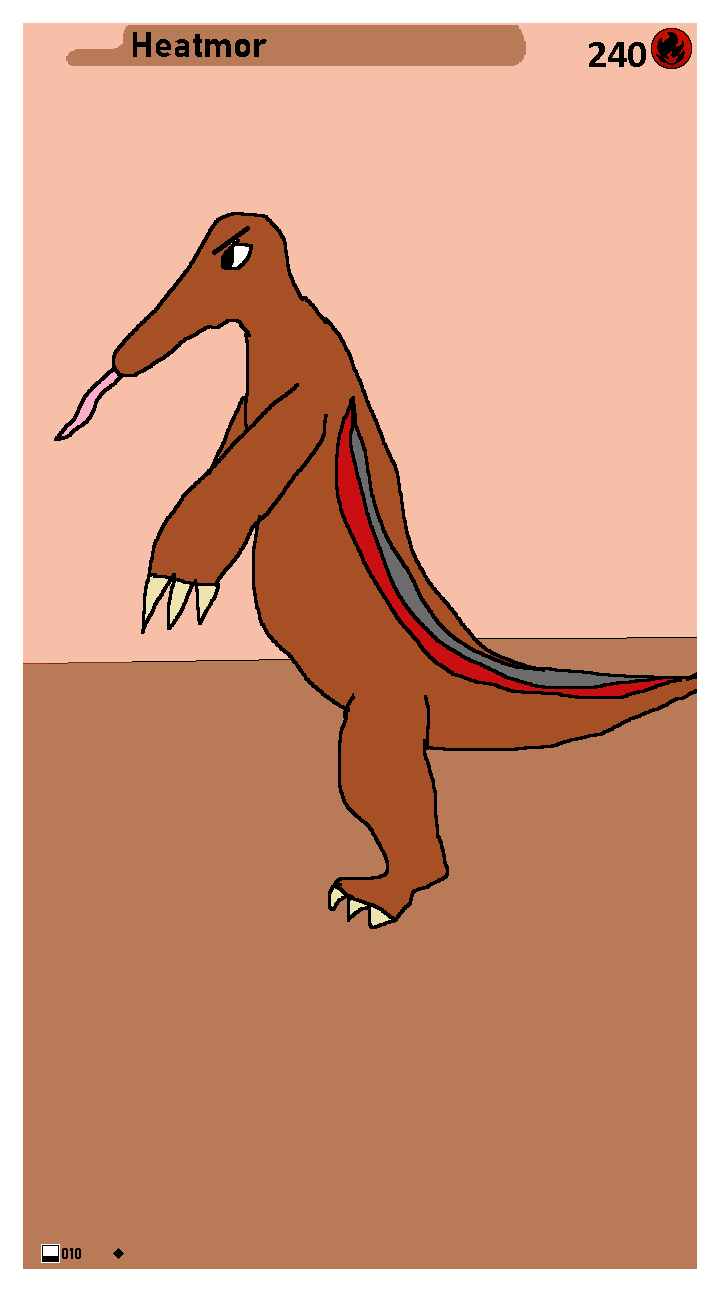
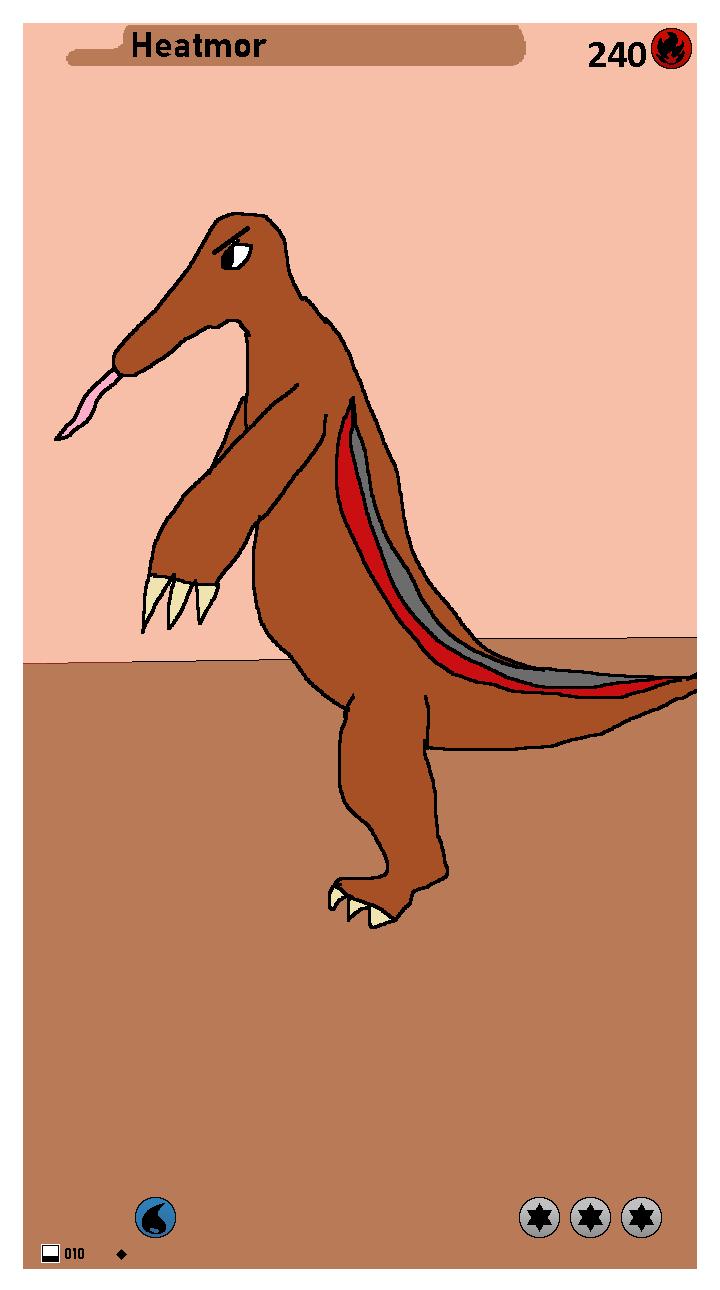
Changed how affection looks and how stats work

Changed region(s): [[0.7028, 0.9302, 0.9167, 0.9612], [0.1833, 0.9302, 0.2444, 0.9612], [0.0917, 0.9612, 0.1222, 0.9922]]

diff --git a/commands/affection/affection.js b/commands/affection/affection.js
@@ -1,16 +1,16 @@
 const { AttachmentBuilder, EmbedBuilder, ButtonBuilder, ButtonStyle, ActionRowBuilder, ComponentType } = require("discord.js");
 const { Users, ItemShop } = require('../../dbObjects.js');
 const { formatName } = require("../../pullingObjects.js");
-const { getLevelUpCost, getNewStats, getPassive, getSpecial } = require("../../affectionObjects.js")
+const { getLevelUpCost, getCurrentStats, getNewStats, getPassive, getSpecial } = require("../../affectionObjects.js")
 const Canvas = require('@napi-rs/canvas');
 
-function makeAffectionEmbed(cardCode, card, costData, statChanges, levelUnlocks) {
+function makeAffectionEmbed(cardCode, card, cardHP, costData, statChanges, levelUnlocks) {
 
     const affectionEmbed = new EmbedBuilder()
         .setColor("#616161")
         .setTitle(`Affection - ${cardCode}`)
         .setThumbnail(`attachment://poke-image.png`)
-        .setDescription(`**Name:** ${formatName(card.item)} \n**Type:** ${card.item.type} \n\n**Level:**\`${card.level}\` \n**Attack:**\`${card.attack}\` \n**Defence:**\`${card.defence}\` \n**Speed:**\`${card.speed}\` \n\n\`LV. ${ card.level == 10 ? 'MAX' : `${card.level} -> LV. ${card.level + 1}`}\` \n\`\`\`diff\nMaterials: \n${costData} \n\nStats: \n${statChanges}\`\`\` \n\n\`Level Unlocks:\` \n\`\`\`ansi\n${levelUnlocks["1"]} \n\n${levelUnlocks["5"]} \n\n${levelUnlocks["10"]}\`\`\``)
+        .setDescription(`**Name:** ${formatName(card.item)} \n**Type:** ${card.item.type} \n\n**Level:**\`${card.level}\` \n**HP:**\`${makeHealthBar(cardHP, cardHP)} ${cardHP} / ${cardHP}\` \n**Attack:**\`${card.attack}\` \n**Defence:**\`${card.defence}\` \n**Speed:**\`${card.speed}\` \n\n\`LV. ${ card.level == 10 ? 'MAX' : `${card.level} -> LV. ${card.level + 1}`}\` \n\`\`\`diff\nMaterials: \n${costData} \n\nStats: \n${statChanges}\`\`\` \n\n\`Level Unlocks:\` \n\`\`\`ansi\n${levelUnlocks["1"]} \n\n${levelUnlocks["5"]} \n\n${levelUnlocks["10"]}\`\`\``)
         .setFooter({ text: `Learn info about specials and passives with info button below`})
 
     return affectionEmbed;
@@ -38,6 +38,7 @@ function affectionEmbedBuilder(splitMessage, card) {
     let costData
 
     const newStats = getNewStats(card);
+    const currStats = getCurrentStats(card);
     let statChanges;
 
     if (card.level == 10) {
@@ -45,7 +46,7 @@ function affectionEmbedBuilder(splitMessage, card) {
         costData = `- NONE`;
     }
     else {
-        statChanges = `+ ${newStats["Attack"] - card.attack} Attack \n+ ${newStats["Defence"] - card.defence} Defence \n+ ${newStats["Speed"] - card.speed} Speed`;
+        statChanges = `+ ${newStats["HP"] - currStats["HP"]} HP \n+ ${newStats["Attack"] - card.attack} Attack \n+ ${newStats["Defence"] - card.defence} Defence \n+ ${newStats["Speed"] - card.speed} Speed`;
         costData = `- ${levelCost["Resource"]["Amount"]} ${(card.item.type).toUpperCase()} ${levelCost["Resource"]["Type"]} ${card.item.card_type == "HOLOFRAME" ? `\n- ${levelCost["HoloResource"]} SPECIAL ITEM` : ""} \n- ${levelCost["Money"]} POKEDOLLARS`
     };
 
@@ -57,7 +58,7 @@ function affectionEmbedBuilder(splitMessage, card) {
         "10": `[0;${card.level == 10 ? 37 : 30}m${card.level >= 10 ? " " : "🔒"} Lv. 10: ${specialData["Name"]} ★ \n${card.level >= 10 ? " " : "🔒"} Lv. 10: ${passiveData["Name"]} ★★ `
     };
 
-    return new makeAffectionEmbed(splitMessage[1], card, costData, statChanges, levelUnlocks);
+    return new makeAffectionEmbed(splitMessage[1], card, currStats["HP"], costData, statChanges, levelUnlocks);
 
 }
 
@@ -131,7 +132,7 @@ function makeLevelCancelEmbed(cardCode, card) {
         .setColor("#bd0f0f")
         .setTitle(`Affection - ${cardCode} [Cancel]`)
         .setThumbnail(`attachment://poke-image.png`)
-        .setDescription(`**Name:** ${formatName(card.item)} \n**Type:** ${card.item.type} \n\n\`Lv. 4\` \n\`\`\`diff\nLevel up has been canceled.\`\`\``)
+        .setDescription(`**Name:** ${formatName(card.item)} \n**Type:** ${card.item.type} \n\n**Level:** \`${card.level}\` \n\`\`\`diff\nLevel up has been canceled.\`\`\``)
 
     return levelEmbed;
 }
@@ -142,7 +143,7 @@ function makeLevelFailEmbed(cardCode, card) {
         .setColor("#bd0f0f")
         .setTitle(`Affection - ${cardCode} [Cancel]`)
         .setThumbnail(`attachment://poke-image.png`)
-        .setDescription(`**Name:** ${formatName(card.item)} \n**Type:** ${card.item.type} \n\n\`Lv. 4\` \n\`\`\`diff\nYou can not afford to level up.\`\`\``)
+        .setDescription(`**Name:** ${formatName(card.item)} \n**Type:** ${card.item.type} \n\n**Level:** \`${card.level}\` \n\`\`\`diff\nYou can not afford to level up.\`\`\``)
 
     return levelEmbed;
 }
@@ -170,11 +171,13 @@ function levelEmbedBuilder(splitMessage, card) {
     let costData;
 
     const newStats = getNewStats(card);
+    const currStats = getCurrentStats(card);
+    
     let statChanges;
 
     if (card.level < 10) {
         costData = `- ${levelCost["Resource"]["Amount"]} ${(card.item.type).toUpperCase()} ${levelCost["Resource"]["Type"]} ${card.item.card_type == "HOLOFRAME" ? `\n- ${levelCost["HoloResource"]} SPECIAL ITEM` : ""} \n- ${levelCost["Money"]} POKEDOLLARS`
-        statChanges = `+ ${newStats["Attack"] - card.attack} Attack \n+ ${newStats["Defence"] - card.defence} Defence \n+ ${newStats["Speed"] - card.speed} Speed`;
+        statChanges = `+ ${newStats["HP"] - currStats["HP"]} HP \n+ ${newStats["Attack"] - card.attack} Attack \n+ ${newStats["Defence"] - card.defence} Defence \n+ ${newStats["Speed"] - card.speed} Speed`;
     };
 
     const passiveData = getPassive(card);
@@ -186,9 +189,10 @@ function levelEmbedBuilder(splitMessage, card) {
 
 function levelConfirmEmbedBuilder(splitMessage, card) {
     const newStats = getNewStats(card);
+    const currStats = getCurrentStats(card);
     let statChanges;
 
-    if (card.level < 10) statChanges = `+ ${card.attack} -> ${newStats["Attack"]} Attack \n+ ${card.defence} -> ${newStats["Defence"]} Defence \n+ ${card.speed} -> ${newStats["Speed"]} Speed`
+    if (card.level < 10) statChanges = `+ ${currStats["HP"]} -> ${newStats["HP"]} HP \n+ ${card.attack} -> ${newStats["Attack"]} Attack \n+ ${card.defence} -> ${newStats["Defence"]} Defence \n+ ${card.speed} -> ${newStats["Speed"]} Speed`
 
     const passiveData = getPassive(card);
     const specialData = getSpecial(card);
@@ -206,6 +210,25 @@ function findItem(collection, itemName) {
     return null;
 }
 
+function makeHealthBar(maxHealth, curHealth) {
+    const green = "🟩";
+    const red = "🟥";
+    let curHealthSquares = Math.ceil(curHealth / 20); 
+    
+    let healthBar = "";
+
+    for (let health = 1; health <= (maxHealth / 20); health++) {
+        if (health <= curHealthSquares) {
+            healthBar += green;
+        }
+        else {
+            healthBar += red;
+        }
+    }
+
+    return healthBar;
+}
+
 module.exports = {
     name: "affection",
     shortName: ["a"],
@@ -218,6 +241,7 @@ module.exports = {
         let infoEmbed;
         let levelEmbed;
         let levelConfirmEmbed;
+        let levelFailEmbed;
         let levelCancelEmbed;
 
         let affectionButton;
@@ -230,64 +254,62 @@ module.exports = {
         let attachment;
         let response = await message.channel.send("...");
 
-        if (splitMessage.length > 1) {
-            if (splitMessage[1].length == 6) {
-                
-                try {
-                    const user = await Users.findOne({ where: { user_id: message.author.id } });
-                    if (!user) { await message.channel.send(`${message.author}, you are not registered. Please register using \`c!register\`.`); return; }
-                    const userCards = await user.getCards();
-
-                    
-                    for (const card of userCards) {
-                        if (card.item_id == splitMessage[1]) {
-                            aCard = card
-                            
-                            const canvas = Canvas.createCanvas(720, 1290);
-                            const context = canvas.getContext('2d');
-
-                            const img1 = await Canvas.loadImage(`./pokeImages/${card.item.card_id}-${card.item.name}.png`);
-                            const img2 = await Canvas.loadImage(`./pokeImages/frames/Normal-Frame.png`);
-
-                            context.drawImage(img1, 0, 0, img1.width, img1.height);
-                            context.drawImage(img2, 0, 0, img1.width, img1.height);
-
-                            attachment = new AttachmentBuilder(await canvas.encode('png'), { name: 'poke-image.png' });
-
-                            newStats = getNewStats(card);
-                            affectionEmbed = affectionEmbedBuilder(splitMessage, card);
-                            affectionButton = makeButtonAffection();
-                            if (card.level == 10) affectionButton.components[0].setDisabled(true);
-
-                            infoEmbed = infoEmbedMaker(splitMessage, card);
-                            infoButton = makeButtonInfo();
-
-                            levelCost = getLevelUpCost(card);
-                            levelEmbed = new levelEmbedBuilder(splitMessage, card);
-                            levelConfirmEmbed = new levelConfirmEmbedBuilder(splitMessage, card);
-                            levelCancelEmbed = new makeLevelCancelEmbed(splitMessage[1], card);
-                            levelFailEmbed = new makeLevelFailEmbed(splitMessage[1], card);
-                            levelButton = makeButtonLevel();
-
-                            await response.edit({ content: "", embeds: [affectionEmbed], components: [affectionButton], files: [attachment] });
-                            break;
-                        }
-                    }
-                }
-                catch (e) {
-                    console.error(e);
-                    message.channel.send({ content: `${message.author} you do not own that card.` });
-                    return;
-                }
-            }
-            else {
-                message.channel.send({ content: `${message.author} please enter a valid card code.` });
-                return;
-            }
-            
-        }
-        else {
+        if (splitMessage.length <= 1) {
             message.channel.send({ content: `${message.author} please enter a valid card code.` });
+            return;
+        }
+        if (splitMessage[1].length != 6) {
+            message.channel.send({ content: `${message.author} please enter a valid card code.` });
+            return;
+        }
+            
+        try {
+            const user = await Users.findOne({ where: { user_id: message.author.id } });
+            if (!user) { 
+                await message.channel.send(`${message.author}, you are not registered. Please register using \`c!register\`.`); 
+                return; 
+            }
+            const userCards = await user.getCards();
+
+            
+            for (const card of userCards) {
+                if (card.item_id == splitMessage[1]) {
+                    aCard = card
+                    
+                    const canvas = Canvas.createCanvas(720, 1290);
+                    const context = canvas.getContext('2d');
+
+                    const img1 = await Canvas.loadImage(`./pokeImages/${card.item.card_id}-${card.item.name}.png`);
+                    const img2 = await Canvas.loadImage(`./pokeImages/frames/Normal-Frame.png`);
+
+                    context.drawImage(img1, 0, 0, img1.width, img1.height);
+                    context.drawImage(img2, 0, 0, img1.width, img1.height);
+
+                    attachment = new AttachmentBuilder(await canvas.encode('png'), { name: 'poke-image.png' });
+
+                    newStats = getNewStats(card);
+                    affectionEmbed = affectionEmbedBuilder(splitMessage, card);
+                    affectionButton = makeButtonAffection();
+                    if (card.level == 10) affectionButton.components[0].setDisabled(true);
+
+                    infoEmbed = infoEmbedMaker(splitMessage, card);
+                    infoButton = makeButtonInfo();
+
+                    levelCost = getLevelUpCost(card);
+                    levelEmbed = new levelEmbedBuilder(splitMessage, card);
+                    levelConfirmEmbed = new levelConfirmEmbedBuilder(splitMessage, card);
+                    levelCancelEmbed = new makeLevelCancelEmbed(splitMessage[1], card);
+                    levelFailEmbed = new makeLevelFailEmbed(splitMessage[1], card);
+                    levelButton = makeButtonLevel();
+
+                    await response.edit({ content: "", embeds: [affectionEmbed], components: [affectionButton], files: [attachment] });
+                    break;
+                }
+            }
+        }
+        catch (e) {
+            console.error(e);
+            message.channel.send({ content: `${message.author} you do not own that card.` });
             return;
         }
 

diff --git a/commands/info/cardInfo.js b/commands/info/cardInfo.js
@@ -1,7 +1,6 @@
 const { AttachmentBuilder, EmbedBuilder, ButtonBuilder, ButtonStyle, ActionRowBuilder, ComponentType } = require("discord.js");
 const { Users, CardDatabase, Wishlists, UserCards } = require("../../dbObjects.js");
-const { raritySymbol, formatName } = require("../../pullingObjects.js");
-const Canvas = require('@napi-rs/canvas');
+const { raritySymbol, makePokeImage, formatName } = require("../../pullingObjects.js");
 
 function makeCardImageEmbed(pokemonData, cardCode, user) {
     const cardImageEmbed = new EmbedBuilder()
@@ -75,16 +74,8 @@ module.exports = {
                 let owner = message.client.users.fetch(card.user_id);
                 owner.then( async function(r) {
                     pokemonData = await CardDatabase.findOne({ where: { id: card.item_info }});
-                    const canvas = Canvas.createCanvas(720, 1290);
-                    const context = canvas.getContext('2d');
 
-                    const img1 = await Canvas.loadImage(`./pokeImages/${pokemonData.card_id}-${pokemonData.name}.png`);
-                    const img2 = await Canvas.loadImage(`./pokeImages/frames/Normal-Frame.png`);
-
-                    context.drawImage(img1, 0, 0, img1.width, img1.height);
-                    context.drawImage(img2, 0, 0, img1.width, img1.height);
-
-                    attachment = new AttachmentBuilder(await canvas.encode('png'), { name: 'poke-image.png' });
+                    attachment = new AttachmentBuilder(await makePokeImage(pokemonData, card), { name: 'poke-image.png' });
                     imageEmbed = makeCardImageEmbed(pokemonData, splitMessage[1], r);
                     statEmbed = makeCardStatEmbed(pokemonData, (await Wishlists.findAll({ where: { card_id: pokemonData.card_id } })).length);
                     response.edit({ content: "", embeds: [imageEmbed], components: [makeButtonImage()], files: [attachment] });
@@ -101,20 +92,12 @@ module.exports = {
             
             const user = await Users.findOne({ where: { user_id: message.author.id } });
 
-            userCards = await user.getCards();
-            lastItem = userCards[userCards.length - 1];
+            const userCards = await user.getCards();
+            const lastItem = userCards[userCards.length - 1];
 
             pokemonData = lastItem.item;
-            const canvas = Canvas.createCanvas(720, 1290);
-            const context = canvas.getContext('2d');
 
-            const img1 = await Canvas.loadImage(`./pokeImages/${pokemonData.card_id}-${pokemonData.name}.png`);
-            const img2 = await Canvas.loadImage(`./pokeImages/frames/Normal-Frame.png`);
-
-            context.drawImage(img1, 0, 0, img1.width, img1.height);
-            context.drawImage(img2, 0, 0, img1.width, img1.height);
-
-            attachment = new AttachmentBuilder(await canvas.encode('png'), { name: 'poke-image.png' });
+            attachment = new AttachmentBuilder(await makePokeImage(pokemonData, lastItem), { name: 'poke-image.png' });
             imageEmbed = makeCardImageEmbed(pokemonData, lastItem.item_id, message.author);
             statEmbed = makeCardStatEmbed(pokemonData, (await Wishlists.findAll({ where: { user_id: message.author.id, card_id: pokemonData.card_id } })).length);
             response.edit({ content: "", embeds: [imageEmbed], components: [makeButtonImage()], files: [attachment] });

diff --git a/pullingObjects.js b/pullingObjects.js
@@ -1,6 +1,7 @@
 const standedPack = require("./packs/standeredPack.json");
 const allCards = require("./packs/allCards.json");
 const { currency } = require("./dbObjects.js");
+const Canvas = require('@napi-rs/canvas');
 
 function getWhichStar() {
 
@@ -20,6 +21,31 @@ function getWhichStar() {
         const pokemon = pullRandomCard(standedPack["rare"]);
         return allCards[pokemon];
     }
+}
+
+async function makePokeImage(pokemonData, cardData) {
+    const canvas = Canvas.createCanvas(720, 1290);
+    const context = canvas.getContext('2d');
+
+    const bottom = await Canvas.loadImage(`./pokeImages/${pokemonData.card_id}-${pokemonData.name}/Bottom.png`);
+    const frame = await Canvas.loadImage(`./pokeImages/frames/Normal-Frame.png`);
+    const top = await Canvas.loadImage(`./pokeImages/${pokemonData.card_id}-${pokemonData.name}/Top.png`);
+
+    let  affection = await Canvas.loadImage(`./pokeImages/affection/level0.png`);
+    
+    if (cardData.level >= 5 && cardData.level < 10) {
+        affection = await Canvas.loadImage(`./pokeImages/affection/level5.png`);
+    }
+    else if (cardData.level >= 10) {
+        affection = await Canvas.loadImage(`./pokeImages/affection/level10.png`);
+    }
+
+    context.drawImage(bottom, 0, 0, bottom.width, bottom.height);
+    context.drawImage(frame, 0, 0, bottom.width, bottom.height);
+    context.drawImage(top, 0, 0, bottom.width, bottom.height);
+    context.drawImage(affection, 0, 0, bottom.width, bottom.height);
+
+    return canvas.encode('png');
 }
 
 function pullRandomCard(starArray) {
@@ -69,4 +95,4 @@ function formatName(pokemonData) {
     else return `${pokemonData.card_id}-${pokemonData.name}`;
 }
 
-module.exports = { getWhichStar, addBalance, raritySymbol, formatName };
+module.exports = { getWhichStar, makePokeImage, addBalance, raritySymbol, formatName };

diff --git a/affectionObjects.js b/affectionObjects.js
@@ -7,6 +7,13 @@ function getLevelUpCost(card) {
     return levelUpCost[card.item.card_type][card.level + 1];
 }
 
+function getCurrentStats(card) {
+    if (card.level == 0) {
+        return { "HP": "20", "Attack": "0", "Defence": "0", "Speed": "0" };
+    }
+    return stateTypes[card.item.name][card.level];
+}
+
 function getNewStats(card) {
     return stateTypes[card.item.name][card.level + 1];
 }
@@ -27,7 +34,7 @@ function getSpecial(card) {
     return specialData[card.item.card_type][card.item.type]
 }
 
-module.exports = { getLevelUpCost, getNewStats, getPassive, getSpecial };
+module.exports = { getLevelUpCost, getCurrentStats, getNewStats, getPassive, getSpecial };
 
 // const { Collection } = require('discord.js');
 // const fs = require('node:fs');

diff --git a/index.js b/index.js
@@ -1,6 +1,6 @@
 const fs = require('node:fs');
 const path = require('node:path');
-const {token} = require("./config.json");
+const { token } = require("./configDEV.json"); // TODO: Change back before prod
 const { Client, codeBlock, Collection, Events, GatewayIntentBits } = require('discord.js');
 const { Users, CurrencyShop } = require('./dbObjects.js');
 const { log } = require('node:console');

diff --git a/events/messageCreate.js b/events/messageCreate.js
@@ -50,8 +50,8 @@ module.exports = {
             try {
             	await command.execute(message);
             } catch (error) {
-            	console.error(`Error executing ${message.commandName}`);
-            	console.error(error);
+            	console.log(`Error executing ${message.commandName}`);
+            	console.log(error);
             }
         }
 	},

diff --git a/raid/raidBattle.js b/raid/raidBattle.js
@@ -41,7 +41,7 @@ function makeRaidButton() {
 function makeHealthBar(maxHealth, curHealth) {
     const green = "🟩";
     const red = "🟥";
-    let curHealthSquares = Math.floor(curHealth / 20); 
+    let curHealthSquares = Math.ceil(curHealth / 20); 
     
     let healthBar = "";
 
